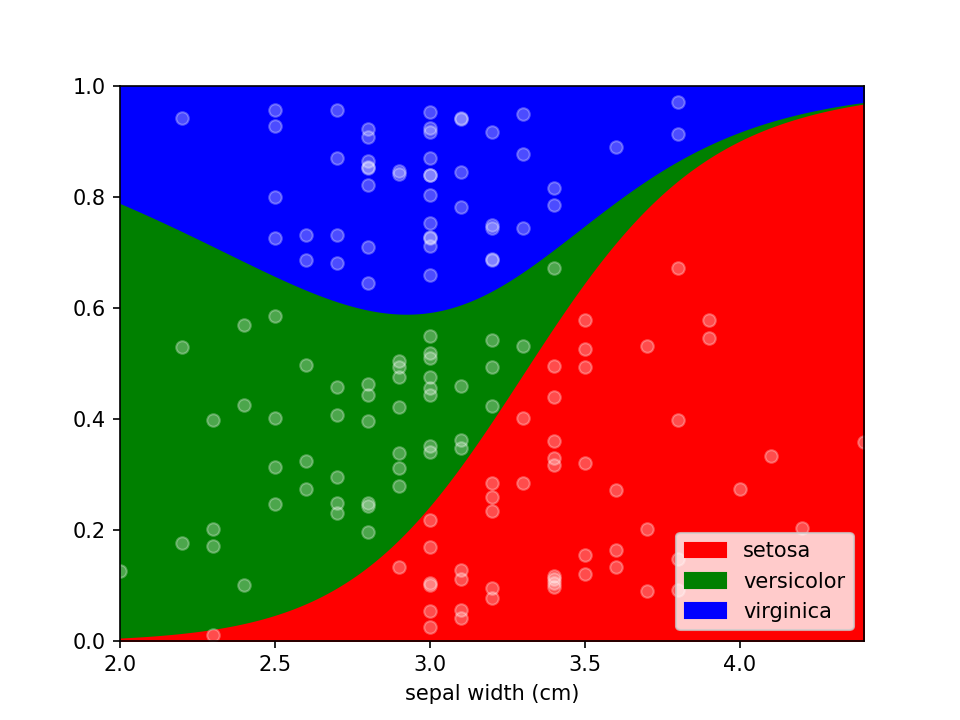
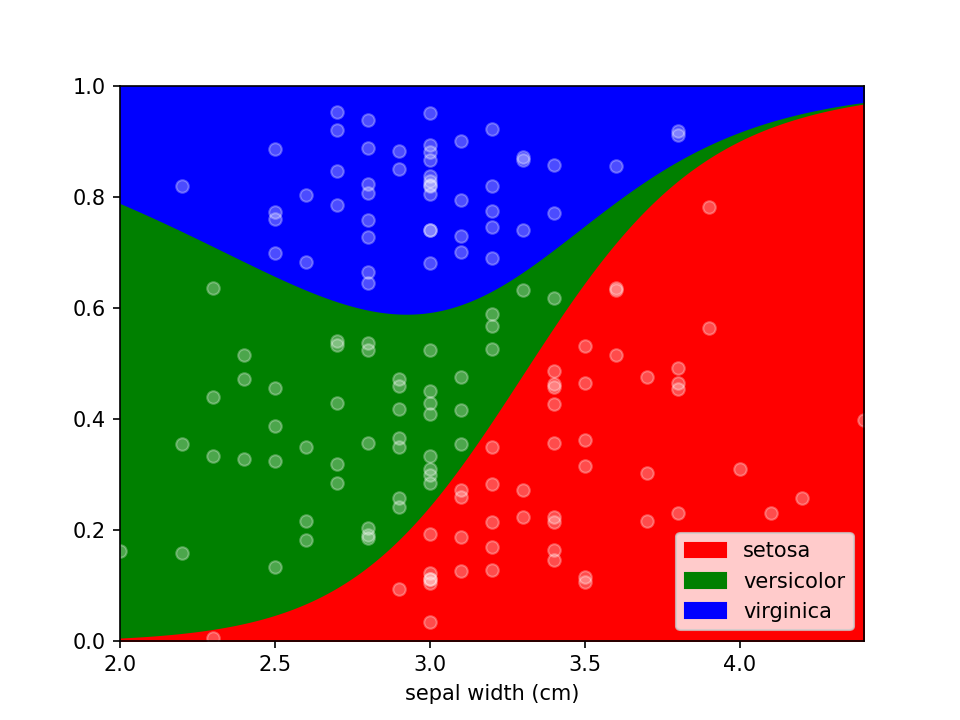
Added support for handling confounders (#6)
Added support for confounders

diff --git a/src/lorepy/lorepy.py b/src/lorepy/lorepy.py
@@ -1,3 +1,4 @@
+import pandas as pd
 from sklearn.linear_model import LogisticRegression
 from pandas import DataFrame
 import numpy as np
@@ -5,13 +6,15 @@ import matplotlib.pyplot as plt
 from typing import Optional, Tuple
 
 
-def _get_area_df(X, lg, x_feature, x_range=None) -> DataFrame:
-    values = (
-        np.linspace(X.min(), X.max(), num=200)
-        if x_range is None
-        else np.linspace(x_range[0], x_range[1], num=200)
-    )
-    proba = lg.predict_proba(values.reshape(-1, 1))
+def _get_area_df(lg, x_feature, x_range, deconfound=[]) -> DataFrame:
+    values = np.linspace(x_range[0], x_range[1], num=200)
+
+    predict_df = pd.DataFrame({"values": values})
+
+    for k, v in deconfound:
+        predict_df[k] = v
+
+    proba = lg.predict_proba(predict_df.values)
     proba_df = DataFrame(proba, columns=lg.classes_)
     proba_df[x_feature] = values
     proba_df.set_index(x_feature, inplace=True)
@@ -19,11 +22,11 @@ def _get_area_df(X, lg, x_feature, x_range=None) -> DataFrame:
     return proba_df
 
 
-def _get_dots_df(X, y, lg, y_feature) -> DataFrame:
+def _get_dots_df(X, y, lg, y_feature, confounders=[]) -> DataFrame:
     output = []
 
     for v, s in zip(X, y):
-        proba = lg.predict_proba([v])
+        proba = lg.predict_proba([v] + [i[1] for i in confounders])
         i = list(lg.classes_).index(s)
         min_value = sum(proba[0][:i])
         max_value = sum(proba[0][: i + 1])
@@ -43,6 +46,7 @@ def loreplot(
     scatter_kws: dict = dict({}),
     ax=None,
     clf=None,
+    confounders=[],
     **kwargs
 ):
     """
@@ -51,18 +55,25 @@ def loreplot(
     :param data: Pandas dataframe with data
     :param x: Needs to be a numerical feature
     :param y: Categorical feature
-    :param add_dots: Shows where true samples are in the plot
+    :param add_dots: Shows where true samples are in the plot (cannot be enabled when deconfounding for additional variables)
     :param x_range: Either None (range will be selected automatically) or a tuple with min and max value for the x-axis
     :param scatter_kws: Dictionary with keyword arguments to pass to the scatter function
     :param ax: subplot to draw on, in case lorepy is used in a subplot
     :param clf: provide a different scikit-learn classifier for the function. Should implement the predict_proba() and fit()
+    :param confounders: list of tuples with the feature and reference value e.g. [("BMI", 25)] will confounders BMI and use a reference of 25 for plots
     :param kwargs: Additional arguments to pass to pandas' plot.area function
     """
     if ax is None:
         ax = plt.gca()
-    tmp_df = data[[x, y]].dropna()
-    X_reg = np.array(tmp_df[x]).reshape(-1, 1)
+
+    x_features = [x] + [i[0] for i in confounders]
+
+    tmp_df = data[x_features + [y]].dropna()
+    X_reg = np.array(tmp_df[x_features])
     y_reg = np.array(tmp_df[y])
+
+    if x_range is None:
+        x_range = (X_reg[:, 0].min(), X_reg[:, 0].max())
 
     lg = LogisticRegression(multi_class="multinomial") if clf is None else clf
     lg.fit(X_reg, y_reg)
@@ -70,10 +81,10 @@ def loreplot(
     if "linestyle" not in kwargs.keys():
         kwargs["linestyle"] = "None"
 
-    area_df = _get_area_df(X_reg, lg, x, x_range=x_range)
+    area_df = _get_area_df(lg, x, x_range, deconfound=confounders)
     area_df.plot.area(ax=ax, **kwargs)
 
-    if add_dots:
+    if add_dots and len(confounders) == 0:
         dot_df = _get_dots_df(X_reg, y_reg, lg, y)
         if "color" not in scatter_kws.keys():
             scatter_kws["color"] = "w"
@@ -81,9 +92,6 @@ def loreplot(
             scatter_kws["alpha"] = 0.3
         ax.scatter(dot_df["x"], dot_df["y"], **scatter_kws)
 
-    if x_range is None:
-        ax.set_xlim(X_reg.min(), X_reg.max())
-    else:
-        ax.set_xlim(*x_range)
+    ax.set_xlim(*x_range)
 
     ax.set_ylim(0, 1)

diff --git a/tests/test_plot.py b/tests/test_plot.py
@@ -83,7 +83,7 @@ def test_get_dots_df():
 
 # Test case for _get_area_df
 def test_get_area_df():
-    area_df = _get_area_df(X_reg, lg, "x")
+    area_df = _get_area_df(lg, "x", (X_reg.min(), X_reg.max()))
     assert isinstance(area_df, DataFrame)
     assert "x" not in area_df.columns
     assert 0 in area_df.columns
@@ -91,16 +91,3 @@ def test_get_area_df():
     assert len(area_df) == 200
     assert area_df.index[0] == X_reg.min()
     assert area_df.index[-1] == X_reg.max()
-
-
-# Test case for _get_area_df with custom x_range
-def test_get_area_df_custom_range():
-    x_range = (2.0, 4.0)
-    area_df = _get_area_df(X_reg, lg, "x", x_range=x_range)
-    assert isinstance(area_df, DataFrame)
-    assert "x" not in area_df.columns
-    assert 0 in area_df.columns
-    assert 1 in area_df.columns
-    assert len(area_df) == 200
-    assert area_df.index[0] == x_range[0]
-    assert area_df.index[-1] == x_range[1]

diff --git a/example.py b/example.py
@@ -71,3 +71,13 @@ ax[1].set_title("RF")
 
 plt.savefig("./docs/img/loreplot_other_clf.png", dpi=150)
 plt.show()
+
+# Basic Lore Plot with default style with one confounder
+loreplot(
+    data=iris_df,
+    x="sepal width (cm)",
+    y="species",
+    confounders=[("petal width (cm)", 1)],
+)
+plt.savefig("./docs/img/loreplot_confounder.png", dpi=150)
+plt.show()

diff --git a/setup.py b/setup.py
@@ -5,7 +5,7 @@ with open("README.md", "r", encoding="utf-8") as fh:
 
 setup(
     name="lorepy",
-    version="0.2.1",
+    version="0.3.0",
     author="Sebastian Proost",
     author_email="sebastian.proost@gmail.com",
     description="Draw Logistic Regression Plots in Python",

diff --git a/README.md b/README.md
@@ -135,6 +135,24 @@ plt.show()
 
 ![Lorepy with different types of classifiers](https://raw.githubusercontent.com/raeslab/lorepy/main/docs/img/loreplot_other_clf.png)
 
+
+In case there are confounders, these can be taken into account using the ```confounders``` argument. This requires a
+list of tuples, with the feature and the reference value for that feature to use in plots. E.g. if you wish to deconfound
+for Body Mass Index (BMI) and use a BMI of 25 in plots, set this to [("BMI", 25)].
+
+```python
+loreplot(
+    data=iris_df,
+    x="sepal width (cm)",
+    y="species",
+    confounders=[("petal width (cm)", 1)],
+)
+plt.savefig("./docs/img/loreplot_confounder.png", dpi=150)
+plt.show()
+```
+
+![Loreplot with a confounder](https://raw.githubusercontent.com/raeslab/lorepy/main/docs/img/loreplot_confounder.png)
+
 ## Development
 
 Additional [documentation for developers](./docs/dev_docs.md) is included with details on running tests, building and deploying to PyPi.
